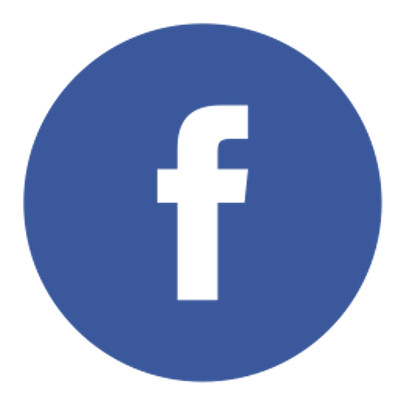
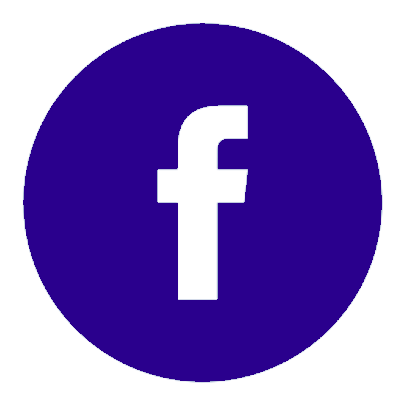
updated image colours

diff --git a/src/Pages/Home/index.js b/src/Pages/Home/index.js
@@ -51,8 +51,20 @@ const useStyles = makeStyles({
             borderBottom: '4px solid black',
         }
     },
-    socialMediaImage: {
+    socialMediaImageFacebook: {
         width: '100%',
+        minWidth: 40
+    },
+    socialMediaImageSoundcloud: {
+        width: '96.5%',
+        position: 'relative',
+        top: '2.25%',
+        minWidth: 40
+    },
+    socialMediaImageInstagram: {
+        width: '90%',
+        position: 'relative',
+        top: '5%',
         minWidth: 40
     },
     gridSocialsWrapper: {
@@ -77,9 +89,9 @@ export function Home() {
                 </Grid>
             </Grid>
             <Grid item container xs={12} spacing={2} className={styles.gridSocialsWrapper}>
-                <Grid item xs={3} sm={2} md={1}><a href='#'><img src='/Assets/Images/facebookIcon.png' className={styles.socialMediaImage}/></a></Grid>
-                <Grid item xs={3} sm={2} md={1}><a href='#'><img src='/Assets/Images/soundcloudLogo.png' className={styles.socialMediaImage}/></a></Grid>
-                <Grid item xs={3} sm={2} md={1}><a href='#'><img src='/Assets/Images/instagramLogo.png' className={styles.socialMediaImage}/></a></Grid>
+                <Grid item xs={3} sm={2} md={1}><a href='#'><img src='/Assets/Images/facebookIcon.png' className={styles.socialMediaImageFacebook}/></a></Grid>
+                <Grid item xs={3} sm={2} md={1}><a href='#'><img src='/Assets/Images/instagramLogo.png' className={styles.socialMediaImageInstagram}/></a></Grid>
+                <Grid item xs={3} sm={2} md={1}><a href='#'><img src='/Assets/Images/soundcloudLogo.png' className={styles.socialMediaImageSoundcloud}/></a></Grid>
             </Grid>
         </Grid>
     )
